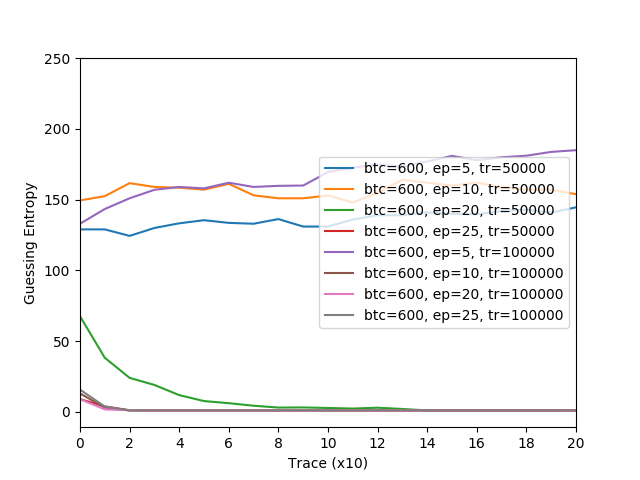
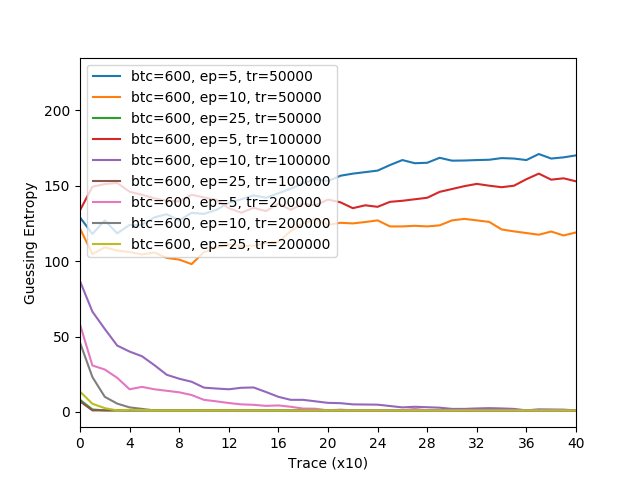
add guessing entropy plot scripts and results

diff --git a/ConditionalGANSCA.py b/ConditionalGANSCA.py
@@ -60,7 +60,7 @@ class DataLoader:
         For more details, check here: https://github.com/ANSSI-FR/ASCAD/tree/master/ATMEGA_AES_v1
         """
 
-        self.filepath = "../ascad-variable_49900_to_50900.h5"
+        self.filepath = "ascad-variable_49900_to_50900.h5"
 
         self.aes_key = "00112233445566778899AABBCCDDEEFF"  # AES encryption key
         self.target_byte_index = 0  # target AES key byte index
@@ -157,7 +157,8 @@ class DataLoader:
 
 class ConditionalGANSCA:
 
-    def __init__(self, num_layers_gen, num_nodes_gen, activation_fn_gen, num_layers_disc, dropout_percentage_disc,
+    def __init__(self, use_augmentation, num_layers_gen, num_nodes_gen, activation_fn_gen, num_layers_disc,
+                 dropout_percentage_disc,
                  num_nodes_disc, activation_fn_disc, network_optimizer, network_optimizer_learn,
                  batch_size, n_epochs, training_size):
         self.file_suffix = "lg" + str(num_layers_gen) \
@@ -173,6 +174,7 @@ class ConditionalGANSCA:
                            + "_ep" + str(n_epochs) \
                            + "_tr" + str(training_size)
         self.generator_file = "./results/generator_" + self.file_suffix + ".h5"
+        self.use_augmentation = use_augmentation
         self.num_layers_gen = num_layers_gen
         self.num_nodes_gen = num_nodes_gen
         self.activation_fn_gen = activation_fn_gen
@@ -513,32 +515,37 @@ class ConditionalGANSCA:
         plt.clf()
 
     def attack(self):
-
-        """ Generate a batch of synthetic measurements with the trained generator """
-        generated_batch_size = 200000
-        self.generator = self.define_generator()
-        self.generator.load_weights(self.generator_file)
-        # [traces_synthetic, labels_synthetic], _ = self.generate_fake_samples(generated_batch_size)
-        # traces_synthetic = self.scaler.transform(traces_synthetic)
-        traces_synthetic = []
-        labels_synthetic = []
         n_avg = 100
-        for _ in tqdm(range(10000)):
-            label = np.random.randint(0, 256, 1)
-            [traces, _], _ = self.generate_fake_samples(n_avg, labels=np.array([label for _ in range(n_avg)]))
-            traces_synthetic.append(np.mean(traces, axis=0))
-            labels_synthetic.append(label)
+        traces = []
+        labels = []
+        if self.use_augmentation:
+            """ Generate a batch of synthetic measurements with the trained generator """
+            self.generator = self.define_generator()
+            self.generator.load_weights(self.generator_file)
+            for _ in tqdm(range(10000)):
+                label = np.random.randint(0, 256, 1)
+                [synthetic_traces, _], _ = self.generate_fake_samples(n_avg,
+                                                                      labels=np.array([label for _ in range(n_avg)]))
+                traces.append(np.mean(synthetic_traces, axis=0))
+                labels.append(label)
 
-        traces_synthetic = np.array(traces_synthetic)
-        # traces_synthetic = self.scaler.transform(traces_synthetic)
+            traces = np.array(traces)
+            # traces_synthetic = self.scaler.transform(traces_synthetic)
 
-        self.snr_synthetic_set(traces_synthetic, labels_synthetic)
+            self.snr_synthetic_set(traces, labels)
+
+        else:
+            [real_traces, real_labels], _, _ = self.generate_real_samples(10000)
+            traces.append(real_traces)
+            labels.append(real_labels)
+
+            traces = np.array(traces)
 
         """ Define a neural network (MLP) to be trained with synthetic traces """
         model = self.mlp(self.dataset.classes, self.dataset.x_profiling.shape[1])
         model.fit(
-            x=traces_synthetic,
-            y=to_categorical(labels_synthetic, num_classes=self.dataset.classes),
+            x=traces,
+            y=to_categorical(labels, num_classes=self.dataset.classes),
             batch_size=100,
             verbose=2,
             epochs=200,
@@ -554,17 +561,21 @@ class ConditionalGANSCA:
 
 
 if __name__ == '__main__':
-    num_layers_gen = int(sys.argv[1])
-    num_nodes_gen = int(sys.argv[2])
-    activation_fn_gen = sys.argv[3]
+    print("GPUs Available: " + str(len(tensorflow.config.list_physical_devices('GPU'))))
+
+    use_augmentation = bool(int(sys.argv[1]))
+
+    num_layers_gen = int(sys.argv[2])
+    num_nodes_gen = int(sys.argv[3])
+    activation_fn_gen = sys.argv[4]
 
     if activation_fn_gen not in ['elu', 'relu', 'leaky-relu']:
         raise Exception('Invalid activation function')
 
-    num_layers_disc = int(sys.argv[4])
-    dropout_percentage_disc = float(sys.argv[5])
-    num_nodes_disc = int(sys.argv[6])
-    activation_fn_disc = sys.argv[7]
+    num_layers_disc = int(sys.argv[5])
+    dropout_percentage_disc = float(sys.argv[6])
+    num_nodes_disc = int(sys.argv[7])
+    activation_fn_disc = sys.argv[8]
 
     if activation_fn_disc not in ['elu', 'relu', 'leaky-relu'] or activation_fn_gen not in ['elu', 'relu',
                                                                                             'leaky-relu']:
@@ -574,23 +585,20 @@ if __name__ == '__main__':
     if dropout_percentage_disc < 0 or dropout_percentage_disc > 1:
         raise Exception('Dropout percentage must be between 0 and 1')
 
-    network_optimizer = sys.argv[8]
-    network_optimizer_learn = float(sys.argv[9])
+    network_optimizer = sys.argv[9]
+    network_optimizer_learn = float(sys.argv[10])
 
     if network_optimizer not in ['adam', 'sgd']:
         raise Exception('Invalid network optimizer')
 
-    batch_size = int(sys.argv[10])
-    n_epochs = int(sys.argv[11])
-    training_size = int(sys.argv[12])
+    batch_size = int(sys.argv[11])
+    n_epochs = int(sys.argv[12])
+    training_size = int(sys.argv[13])
 
-    print(network_optimizer, network_optimizer_learn, batch_size, n_epochs, training_size)
+    cgan = ConditionalGANSCA(use_augmentation, num_layers_gen, num_nodes_gen, activation_fn_gen, num_layers_disc,
+                             dropout_percentage_disc, num_nodes_disc, activation_fn_disc, network_optimizer,
+                             network_optimizer_learn, batch_size, n_epochs, training_size)
 
-    print("GPUs Available: " + str(len(tensorflow.config.list_physical_devices('GPU'))))
-
-    cgan = ConditionalGANSCA(num_layers_gen, num_nodes_gen, activation_fn_gen, num_layers_disc, dropout_percentage_disc,
-                             num_nodes_disc, activation_fn_disc, network_optimizer, network_optimizer_learn,
-                             batch_size, n_epochs, training_size)
-
-    cgan.train()
+    if use_augmentation:
+        cgan.train()
     cgan.attack()

diff --git a/util/dropout2_ge_plot.py b/util/dropout2_ge_plot.py
@@ -1,0 +1,46 @@
+import sys
+import matplotlib.pyplot as plt
+from matplotlib.ticker import MaxNLocator
+
+
+def main():
+    args = len(sys.argv)
+    for i in range(1, args - 1, 6):
+        layers_gen = sys.argv[i]
+        nodes_gen = sys.argv[i + 1]
+        layers_disc = sys.argv[i + 2]
+        dropout_disc = sys.argv[i + 3]
+        nodes_disc = sys.argv[i + 4]
+        index = sys.argv[i + 5]
+        file_name = get_file_name(
+            layers_gen,
+            nodes_gen,
+            layers_disc,
+            dropout_disc,
+            nodes_disc
+        )
+
+        file = open(file_name, "r")
+        lines = file.readlines()
+        lines = list(map(lambda x: float(x[0: len(x) - 3]), lines))
+        plt.plot(lines, label="CGAN_" + index + "(" + dropout_disc + ")")
+    plt.xlabel("Trace (x10)")
+    plt.ylabel("Guessing Entropy")
+    plt.legend()
+    plt.gca().xaxis.set_major_locator(MaxNLocator(integer=True))  # Force integer x-axis ticks
+    # plt.xlim(0, 0)
+    # plt.ylim(0, 40)
+    plt.show()
+
+
+def get_file_name(layers_gen, nodes_gen, layers_disc, dropout_disc, nodes_disc, ):
+    return "results/experiment-dropout2/ge_lg" + layers_gen \
+        + "_ng" + nodes_gen \
+        + "_agelu_ld" + layers_disc \
+        + "_dd" + dropout_disc \
+        + "_nd" + nodes_disc \
+        + "_adelu_noadam_nol0.0002_bs400_ep10_tr200000.txt"
+
+
+if __name__ == '__main__':
+    main()

diff --git a/util/dropout_ge_plot.py b/util/dropout_ge_plot.py
@@ -17,18 +17,9 @@ def main():
     plt.show()
 
 
-def get_parameter_value(file, parameter):
-    index = file.index(parameter) + len(parameter)
-    value = ''
-    while file[index] != '_' and file[index:] != '.txt':
-        value += file[index]
-        index += 1
-    return value
-
-
 def get_file_name(experiment_value):
     return "results/experiment-dropout/ge_lg6_ng160_agelu_ld4_dd" + experiment_value + "_nd250_adelu_noadam_nol0" \
-                                                                    ".0002_bs400_ep10_tr200000.txt"
+                                                                                       ".0002_bs400_ep10_tr200000.txt"
 
 
 if __name__ == '__main__':

diff --git a/util/base_ge_plot.py b/util/base_ge_plot.py
@@ -1,0 +1,23 @@
+import sys
+import matplotlib.pyplot as plt
+from matplotlib.ticker import MaxNLocator
+
+
+def main():
+    file_name = "results/experiment-base/ge_lg0_ng0_agelu_ld0_dd0.0_nd0_adelu_noadam_nol0.0_bs0_ep0_tr0.txt"
+
+    file = open(file_name, "r")
+    lines = file.readlines()
+    lines = list(map(lambda x: float(x[0: len(x) - 3]), lines))
+    plt.plot(lines, label="MLP")
+    plt.xlabel("Trace (x10)")
+    plt.ylabel("Guessing Entropy")
+    plt.legend()
+    plt.gca().xaxis.set_major_locator(MaxNLocator(integer=True))  # Force integer x-axis ticks
+    # plt.xlim(0, 180)
+    # plt.ylim(0, 20)
+    plt.show()
+
+
+if __name__ == '__main__':
+    main()

diff --git a/util/training_ge_plot.py b/util/training_ge_plot.py
@@ -20,18 +20,9 @@ def main():
     plt.ylabel("Guessing Entropy")
     plt.legend()
     plt.gca().xaxis.set_major_locator(MaxNLocator(integer=True))  # Force integer x-axis ticks
-    plt.xlim(0, 20)
+    plt.xlim(0, 10)
     # plt.ylim(0, 40)
     plt.show()
-
-
-def get_parameter_value(file, parameter):
-    index = file.index(parameter) + len(parameter)
-    value = ''
-    while file[index] != '_' and file[index:] != '.txt':
-        value += file[index]
-        index += 1
-    return value
 
 
 def get_file_name(experiment_value_batch, experiment_value_epochs, experiment_value_training):

diff --git a/util/optimizer_ge_plot.py b/util/optimizer_ge_plot.py
@@ -23,15 +23,6 @@ def main():
     plt.show()
 
 
-def get_parameter_value(file, parameter):
-    index = file.index(parameter) + len(parameter)
-    value = ''
-    while file[index] != '_' and file[index:] != '.txt':
-        value += file[index]
-        index += 1
-    return value
-
-
 def get_file_name(experiment_value_optimizer, experiment_value_learning):
     return "results/experiment-optimizer/ge_lg6_ng160_agelu_ld4_dd0.3_nd250_adelu_no" + experiment_value_optimizer \
         + "_nol" + experiment_value_learning + "_bs400_ep10_tr200000.txt"

diff --git a/util/activation_ge_plot.py b/util/activation_ge_plot.py
@@ -23,15 +23,6 @@ def main():
     plt.show()
 
 
-def get_parameter_value(file, parameter):
-    index = file.index(parameter) + len(parameter)
-    value = ''
-    while file[index] != '_' and file[index:] != '.txt':
-        value += file[index]
-        index += 1
-    return value
-
-
 def get_file_name(experiment_value_gen, experiment_value_disc):
     return "results/experiment-activation/ge_lg6_ng160_ag" + experiment_value_gen \
         + "_ld4_dd0.3_nd250_ad" + experiment_value_disc + "_noadam_nol0.0002_bs400_ep10_tr200000.txt"

diff --git a/util/layers_ge_plot.py b/util/layers_ge_plot.py
@@ -23,15 +23,6 @@ def main():
     plt.show()
 
 
-def get_parameter_value(file, parameter):
-    index = file.index(parameter) + len(parameter)
-    value = ''
-    while file[index] != '_' and file[index:] != '.txt':
-        value += file[index]
-        index += 1
-    return value
-
-
 def get_file_name(experiment_value_gen, experiment_value_disc):
     return "results/experiment-layers/ge_lg" + experiment_value_gen \
         + "_ng160_agelu_ld" + experiment_value_disc + "_dd0.3_nd250_adelu_noadam_nol0.0002_bs400_ep10_tr200000.txt"

diff --git a/util/nodes_ge_plot.py b/util/nodes_ge_plot.py
@@ -23,14 +23,6 @@ def main():
     plt.show()
 
 
-def get_parameter_value(file, parameter):
-    index = file.index(parameter) + len(parameter)
-    value = ''
-    while file[index] != '_' and file[index:] != '.txt':
-        value += file[index]
-        index += 1
-    return value
-
 
 def get_file_name(experiment_value_gen, experiment_value_disc):
     return "results/experiment-nodes/ge_lg6_ng" + experiment_value_gen \
